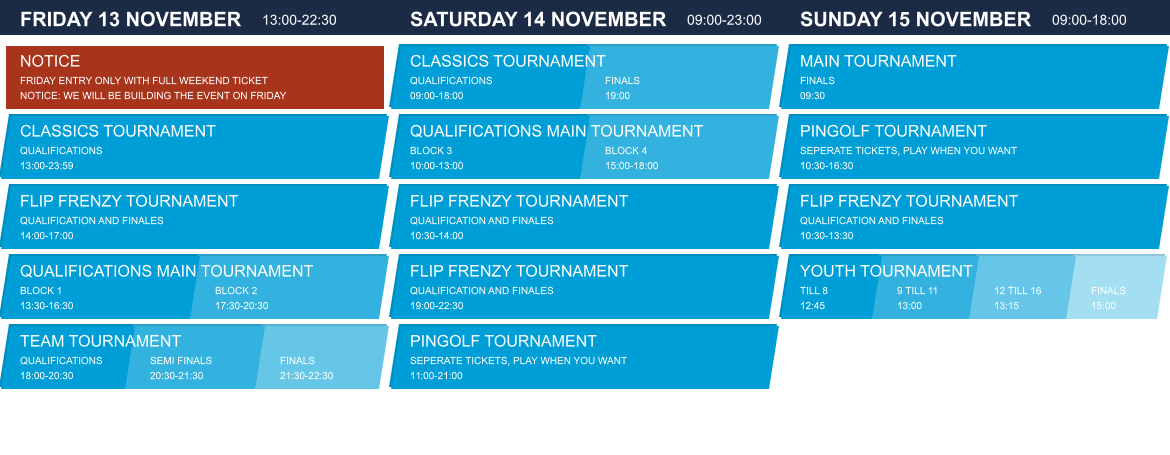
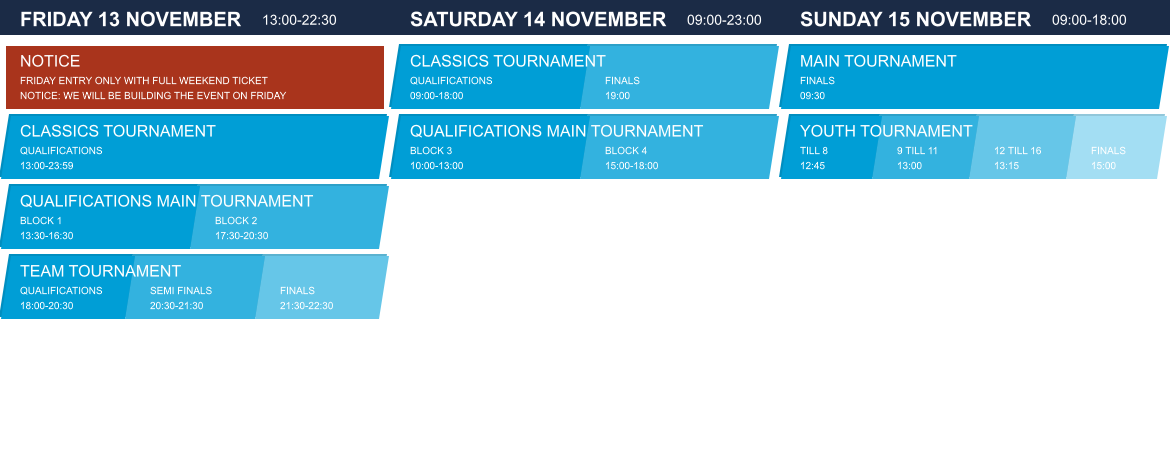
bump

diff --git a/embed-snippet.html b/embed-snippet.html
@@ -1,0 +1,42 @@
+<!--
+  Embed-snippet voor club-assistent. Plak dit EENMALIG in het HTML-veld.
+  Je hoeft dit nooit meer aan te passen: de afbeelding-versie wordt automatisch
+  uit version.txt gelezen, zodat een nieuwe timetable altijd ververst.
+-->
+<div style="max-width:1170px;margin:0 auto">
+
+  <!-- Afbeelding. De ?v= wordt hieronder automatisch gezet vanuit version.txt. -->
+  <img
+    id="dpo-timetable-img"
+    src="https://rdkleine.github.io/dpo-website-content/program.png"
+    alt="Timetable Dutch Pinball Open Expo"
+    style="width:100%;height:auto;display:block" />
+
+  <!-- Lijst in een afgeschermd iframe (XSS-veilig: sandbox ontneemt alle rechten). -->
+  <iframe
+    src="https://rdkleine.github.io/dpo-website-content/program.html"
+    title="Schedule"
+    loading="lazy"
+    sandbox=""
+    referrerpolicy="no-referrer"
+    style="width:100%;height:1600px;border:0;margin-top:16px"></iframe>
+
+</div>
+
+<script>
+// Leest de versie (platte tekst, bv. "20260602124937") en zet die als cache-buster
+// op de afbeelding. We zetten ALLEEN een src-attribuut; er wordt niets als HTML
+// uitgevoerd, dus dit is geen XSS-vector.
+(function () {
+  var base = "https://rdkleine.github.io/dpo-website-content/";
+  fetch(base + "version.txt", { cache: "no-store" })
+    .then(function (r) { return r.ok ? r.text() : ""; })
+    .then(function (v) {
+      v = (v || "").trim();
+      if (!/^[0-9]+$/.test(v)) return;            // alleen cijfers; anders niets doen
+      var img = document.getElementById("dpo-timetable-img");
+      if (img) img.src = base + "program.png?v=" + v;
+    })
+    .catch(function () { /* offline/CDN-issue: toon gewoon de zonder-versie afbeelding */ });
+})();
+</script>

diff --git a/program.html b/program.html
@@ -19,7 +19,6 @@ body { font-family: Arial, Helvetica, sans-serif; margin: 0; padding: 8px; }
 <li>13:00 - 23:59 Classics Wedstrijden - Kwalificaties</li>
 <li>13:30 - 16:30 Kwalificaties Hoofdwedstrijd - Blok 1</li>
 <li>17:30 - 20:30 Kwalificaties Hoofdwedstrijd - Blok 2</li>
-<li>14:00 - 17:00 Flip Frenzy Wedstrijd - Kwalificatie En Finale</li>
 <li>18:00 - 20:30 Team Wedstrijden - Kwalificaties</li>
 <li>20:30 - 21:30 Team Wedstrijden - Halve Finale</li>
 <li>21:30 - 22:30 Team Wedstrijden - Finale</li>
@@ -33,17 +32,12 @@ body { font-family: Arial, Helvetica, sans-serif; margin: 0; padding: 8px; }
 <li>19:00 -  Classics Wedstrijden - Finale</li>
 <li>10:00 - 13:00 Kwalificaties Hoofdwedstrijd - Blok 3</li>
 <li>15:00 - 18:00 Kwalificaties Hoofdwedstrijd - Blok 4</li>
-<li>10:30 - 14:00 Flip Frenzy Wedstrijd - Kwalificatie En Finale</li>
-<li>11:00 - 21:00 Pingolf Wedstrijd - Losse Tickets, Speel Wanneer Jij Wilt</li>
-<li>19:00 - 22:30 Flip Frenzy Wedstrijd - Kwalificatie En Finale</li>
 </ul>
 <h3>Zondag 15 November</h3>
 <p>&nbsp;</p>
 <ul>
 <li><b>09:00 - 18:00 Openingstijden</b></li>
 <li>09:30 -  Hoofdwedstrijd - Finale</li>
-<li>10:30 - 16:30 Pingolf Wedstrijd - Losse Tickets, Speel Wanneer Jij Wilt</li>
-<li>10:30 - 13:30 Flip Frenzy Wedstrijd - Kwalificatie En Finale</li>
 <li>12:45 -  Jeugd Wedstrijden - T/M 8</li>
 <li>13:00 -  Jeugd Wedstrijden - 9 T/M 11</li>
 <li>13:15 -  Jeugd Wedstrijden - 12 T/M 16</li>
@@ -58,7 +52,6 @@ body { font-family: Arial, Helvetica, sans-serif; margin: 0; padding: 8px; }
 <li>13:00 - 23:59 Classics Tournament - Qualifications</li>
 <li>13:30 - 16:30 Qualifications Main Tournament - Block 1</li>
 <li>17:30 - 20:30 Qualifications Main Tournament - Block 2</li>
-<li>14:00 - 17:00 Flip Frenzy Tournament - Qualification And Finales</li>
 <li>18:00 - 20:30 Team Tournament - Qualifications</li>
 <li>20:30 - 21:30 Team Tournament - Semi Finals</li>
 <li>21:30 - 22:30 Team Tournament - Finals</li>
@@ -72,17 +65,12 @@ body { font-family: Arial, Helvetica, sans-serif; margin: 0; padding: 8px; }
 <li>19:00 -  Classics Tournament - Finals</li>
 <li>10:00 - 13:00 Qualifications Main Tournament - Block 3</li>
 <li>15:00 - 18:00 Qualifications Main Tournament - Block 4</li>
-<li>10:30 - 14:00 Flip Frenzy Tournament - Qualification And Finales</li>
-<li>11:00 - 21:00 Pingolf Tournament - Seperate Tickets, Play When You Want</li>
-<li>19:00 - 22:30 Flip Frenzy Tournament - Qualification And Finales</li>
 </ul>
 <h3>Sunday 15 November</h3>
 <p>&nbsp;</p>
 <ul>
 <li><b>09:00 - 18:00 Opening Hours</b></li>
 <li>09:30 -  Main Tournament - Finals</li>
-<li>10:30 - 16:30 Pingolf Tournament - Seperate Tickets, Play When You Want</li>
-<li>10:30 - 13:30 Flip Frenzy Tournament - Qualification And Finales</li>
 <li>12:45 -  Youth Tournament - Till 8</li>
 <li>13:00 -  Youth Tournament - 9 Till 11</li>
 <li>13:15 -  Youth Tournament - 12 Till 16</li>